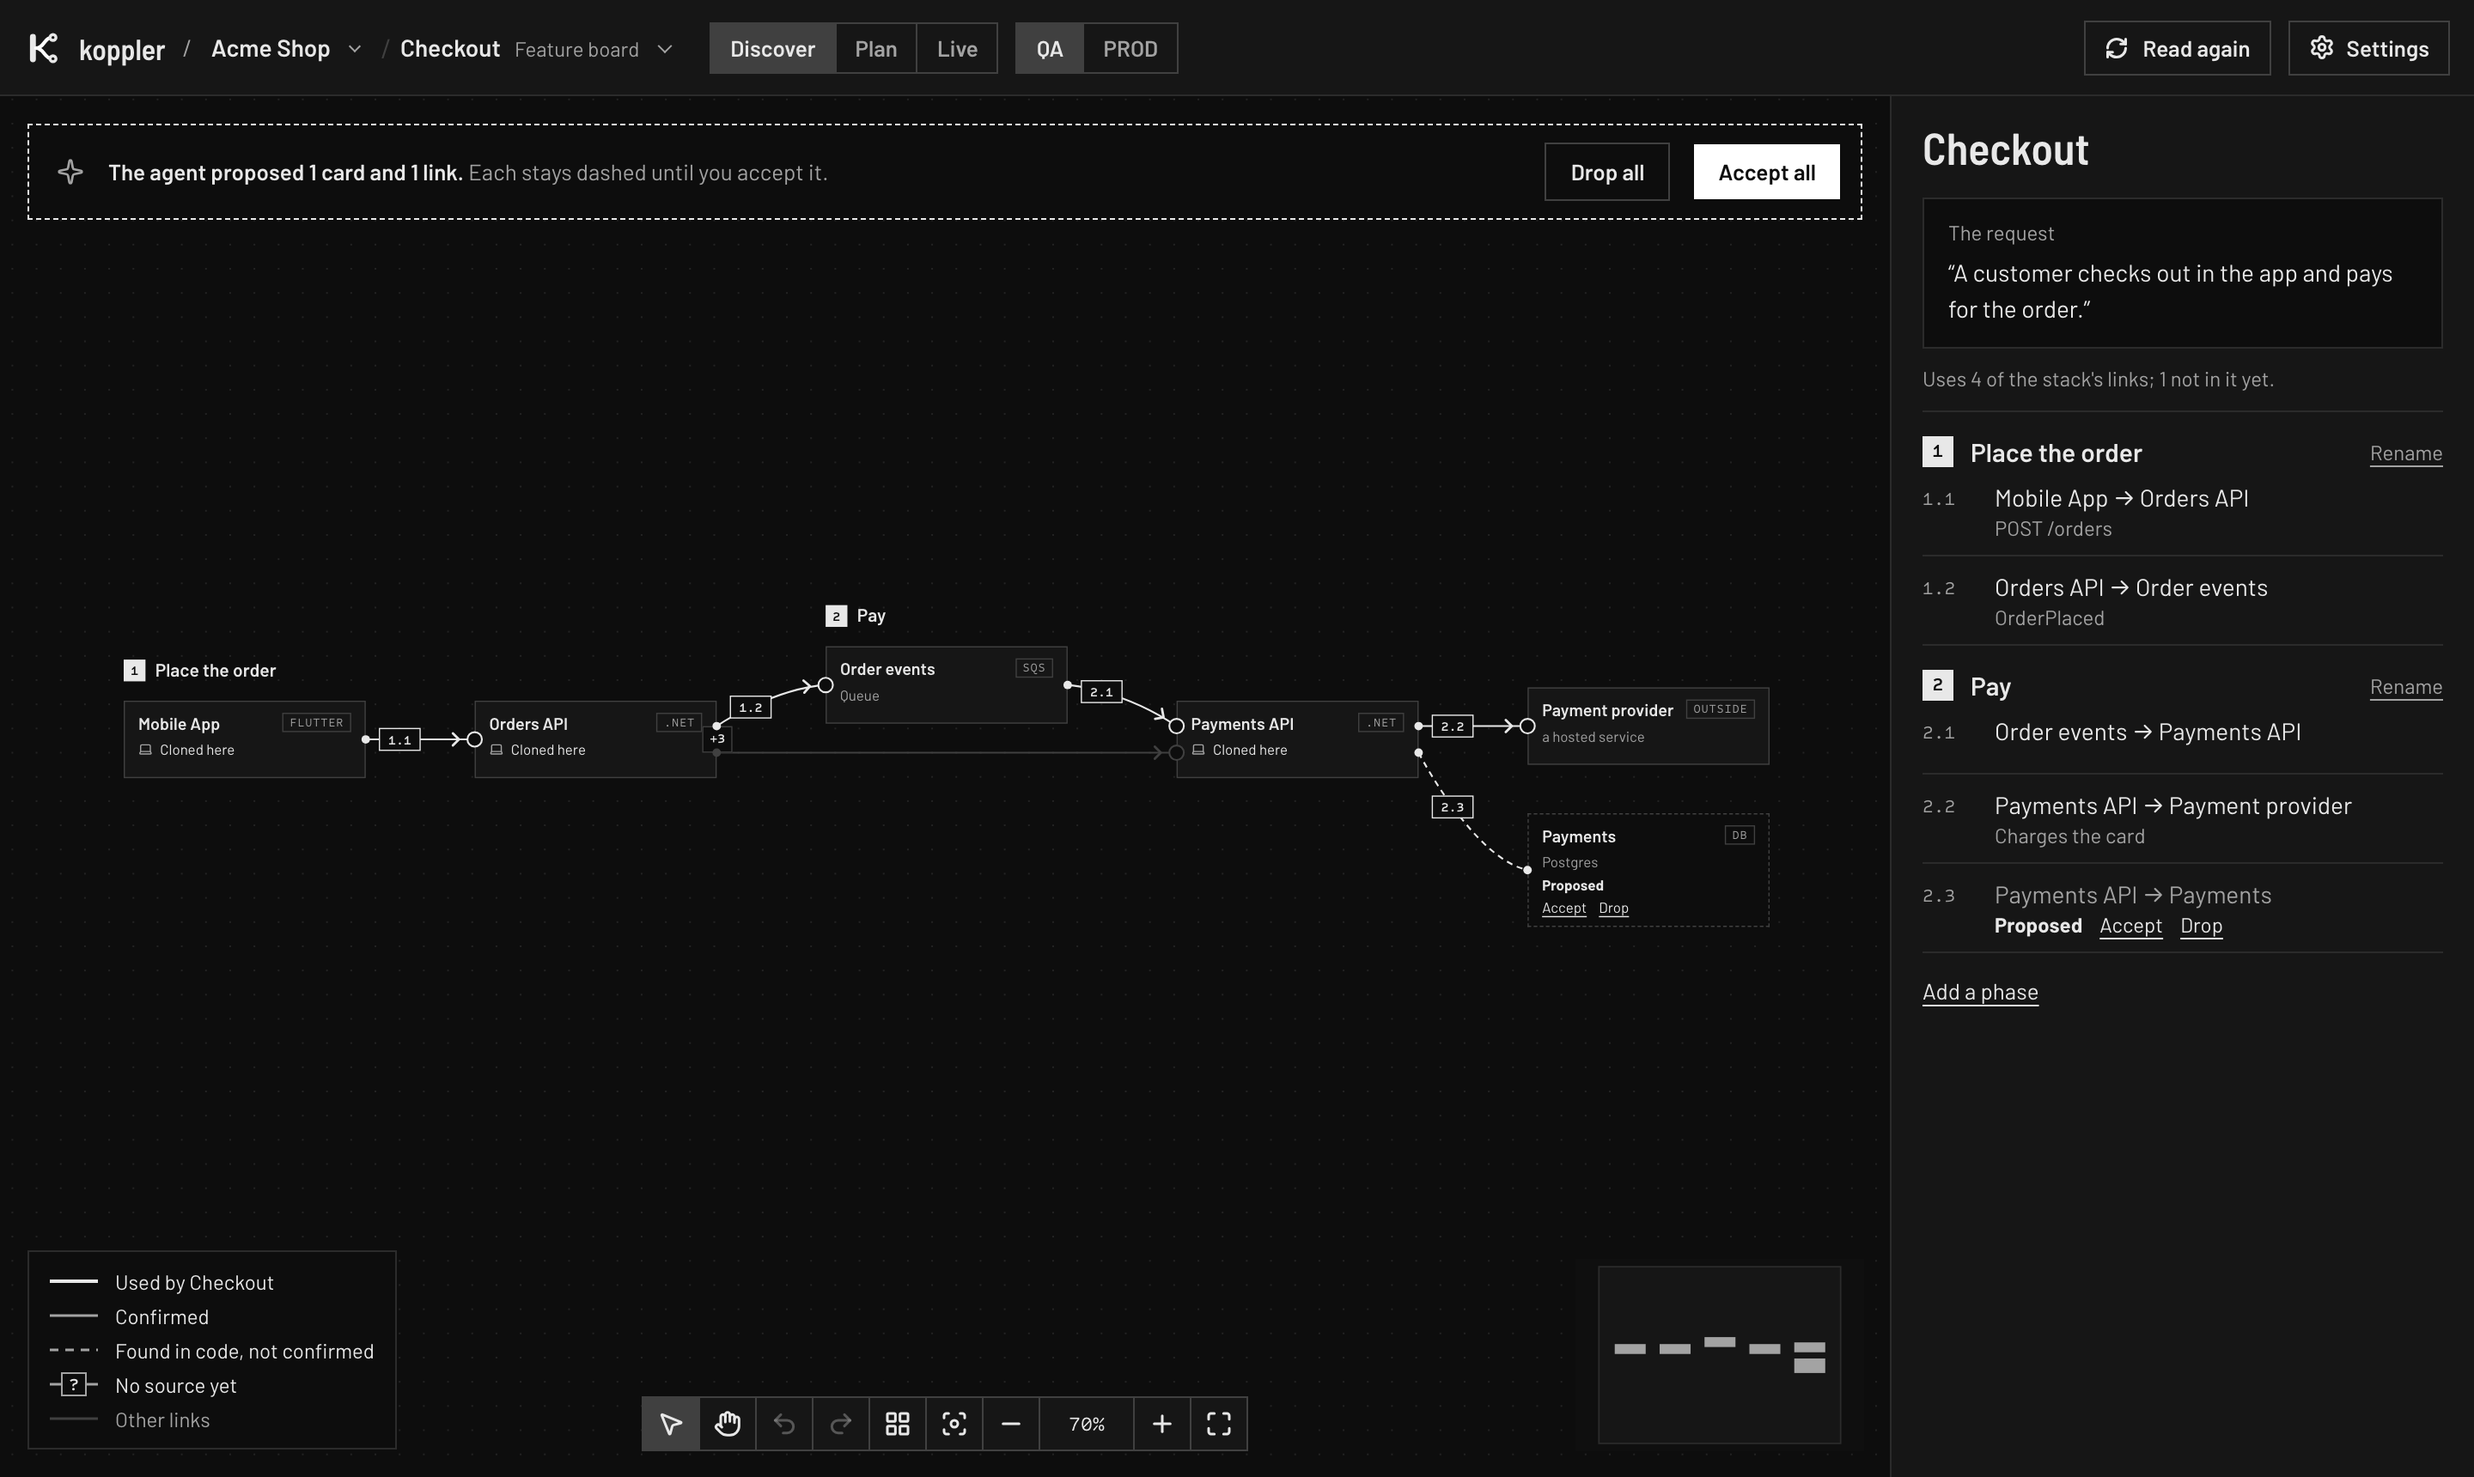
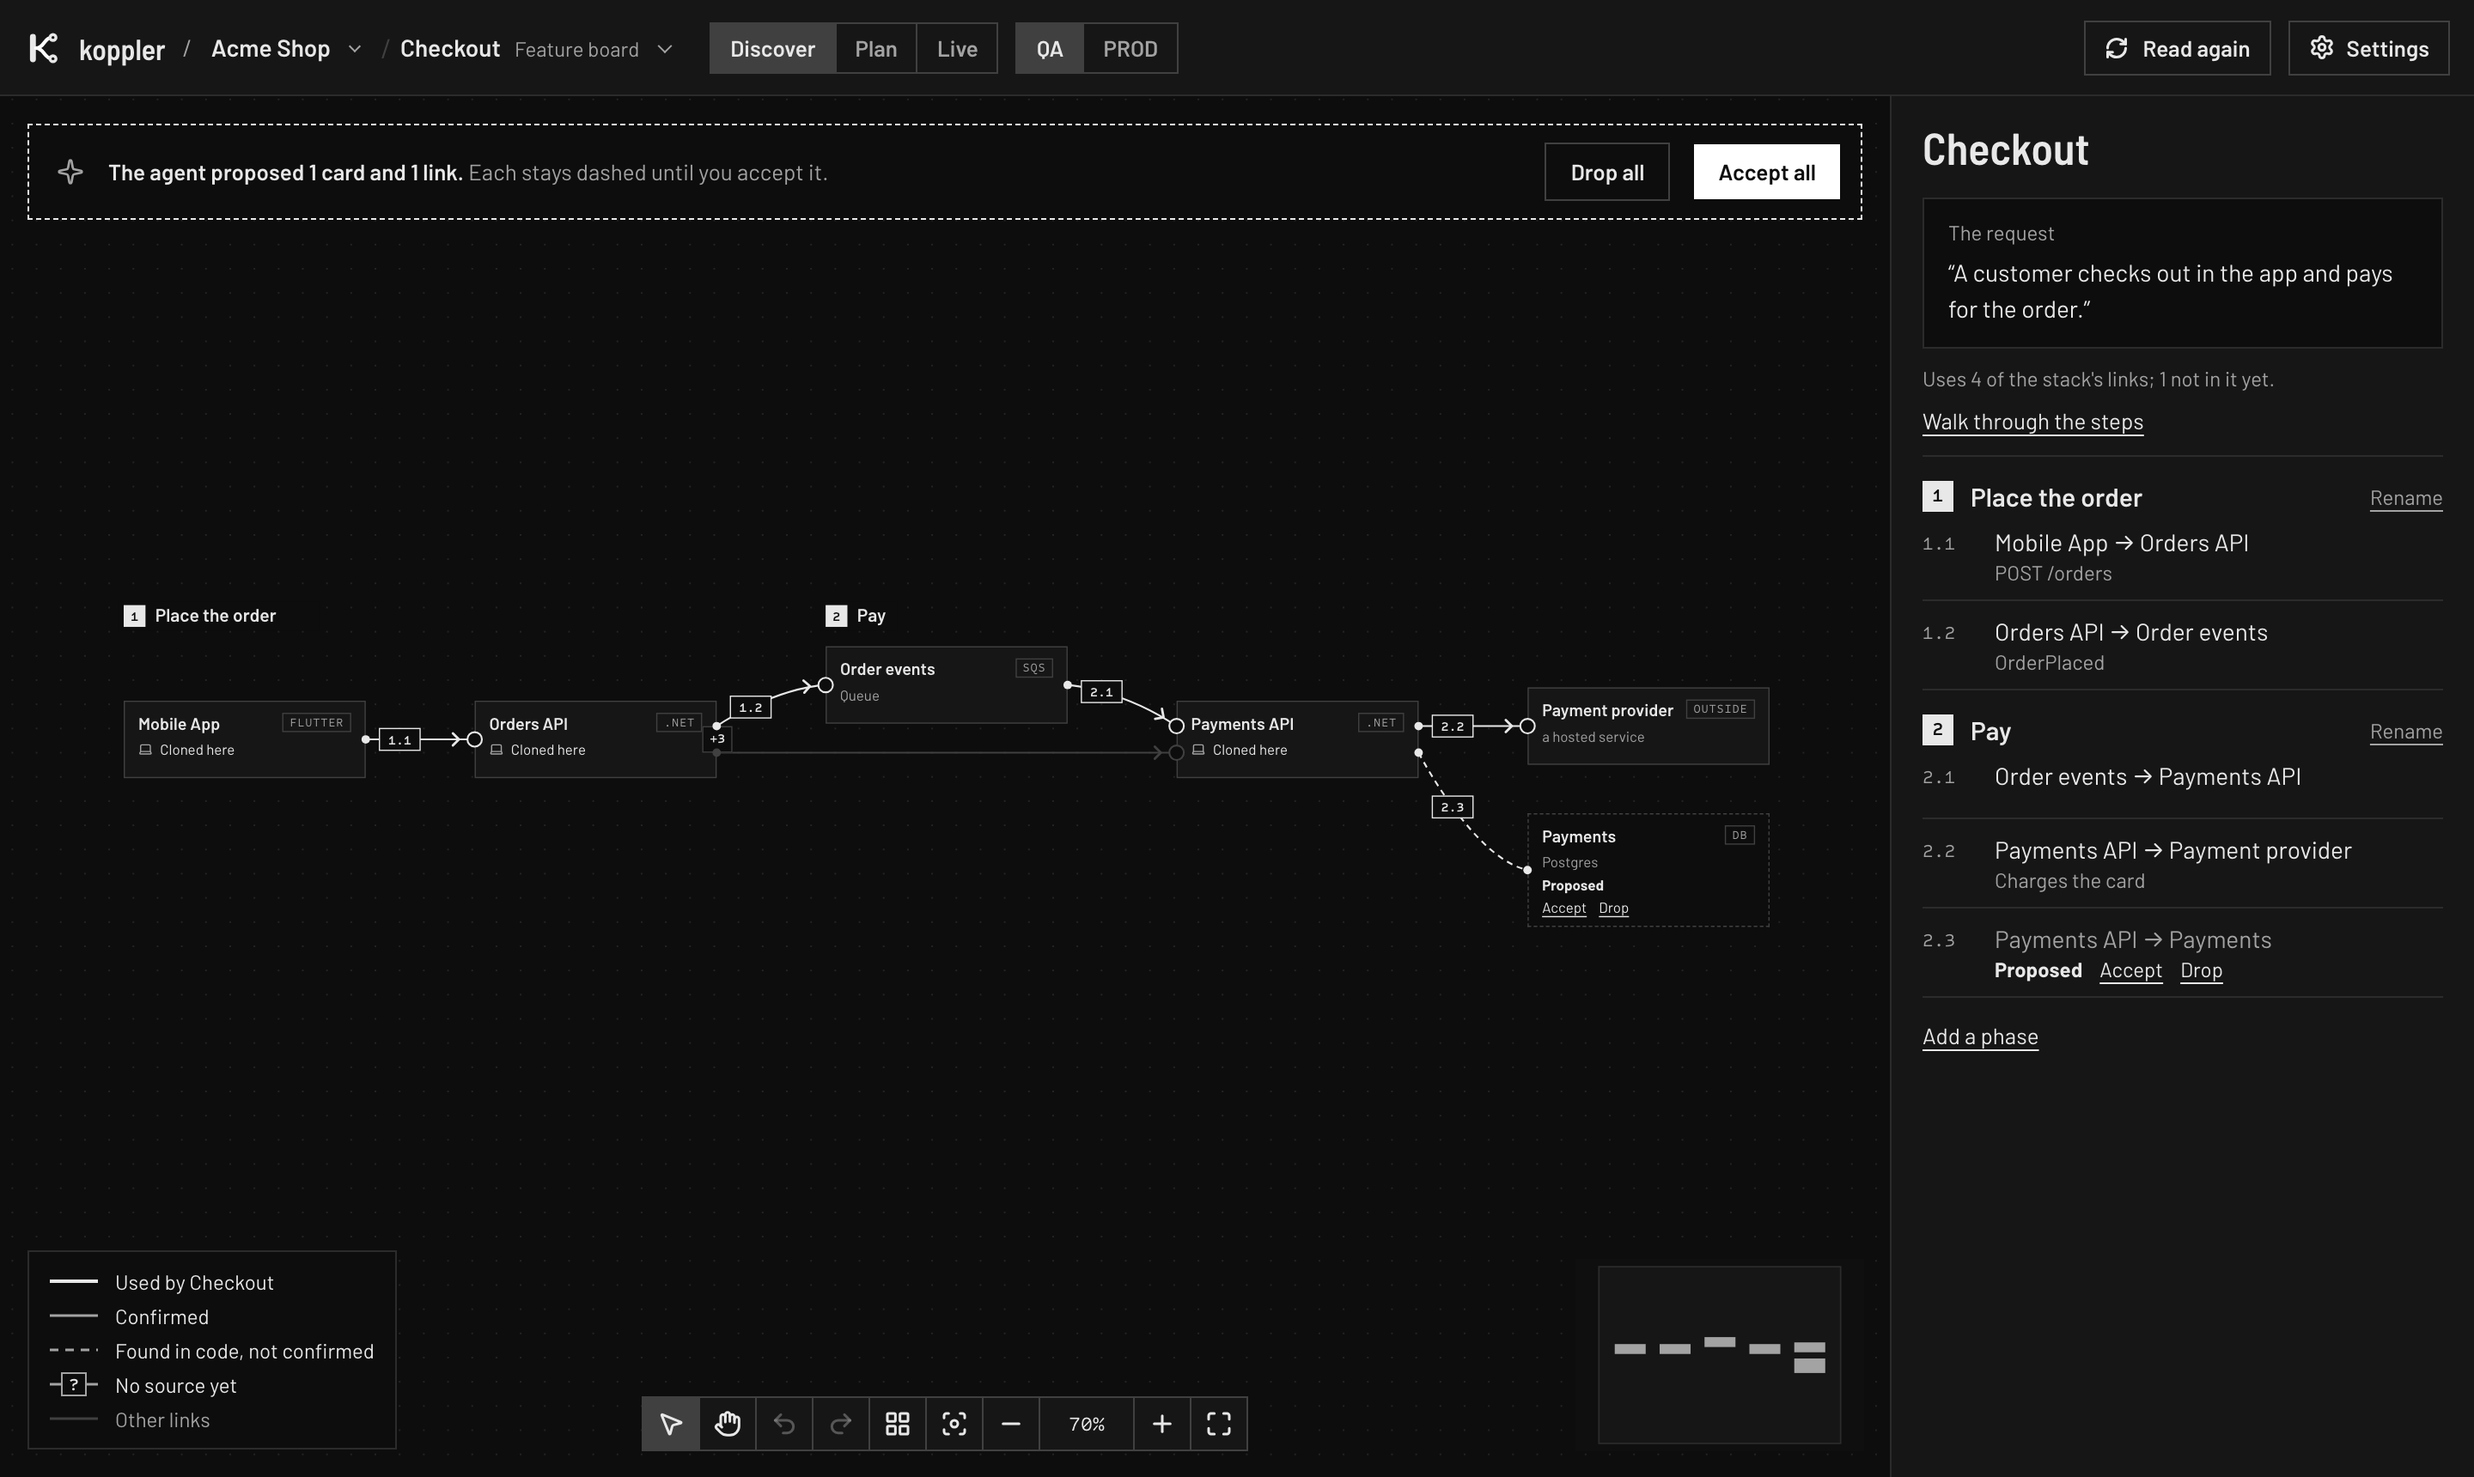
A feature board can be walked through step by step, and phase names sit above their cards, clear of links
Closes #644

Changed region(s): [[0.7812, 0.2773, 0.9375, 0.7087], [0.0312, 0.4006, 0.0938, 0.4622]]

diff --git a/app/canvas/Discover.svelte b/app/canvas/Discover.svelte
@@ -4,6 +4,9 @@
   import Sparkle from '@lucide/svelte/icons/sparkle';
   import X from '@lucide/svelte/icons/x';
   import Laptop from '@lucide/svelte/icons/laptop';
+  import { untrack } from 'svelte';
+  import ChevronLeft from '@lucide/svelte/icons/chevron-left';
+  import ChevronRight from '@lucide/svelte/icons/chevron-right';
   import {
     SvelteFlow,
     Background,
@@ -31,6 +34,20 @@
 
   const flow = useSvelteFlow();
   const map = $derived(discovered.map);
+  // A step picked is brought into view, both its cards, without zooming in.
+  $effect(() => {
+    const step = discovered.current?.step;
+    if (step)
+      untrack(
+        () =>
+          void flow.fitView({
+            nodes: [{ id: step.from }, { id: step.to }],
+            duration: 200,
+            maxZoom: flow.getZoom(),
+            padding: 0.3,
+          }),
+      );
+  });
   // The map refits when it gains cards or the panel takes or gives back its room.
   const shape = $derived(`${String(map.cards.length)}:${String(!!discovered.last)}`);
   $effect(() => {
@@ -124,17 +141,19 @@
           label: link.kind === 'bucket' && !step ? link.via : undefined,
           faded:
             (!!near && !(discovered.picked.includes(link.from) || discovered.picked.includes(link.to))) ||
-            (phase !== null && step?.phase !== phase),
+            (phase !== null && step?.phase !== phase) ||
+            (!!discovered.current && step?.number !== discovered.current.number),
         },
       ];
     });
   });
-  /** Each phase's name, above the card its first step leaves. */
+  /** Each phase's name, over the card its first step leaves, above every card of the phase so its links pass below. */
   const phases = $derived(
     (board.feature?.phases ?? []).flatMap((phase, at) => {
       const first = phase.steps[0];
       const where = first && box(first.from);
-      return where ? [{ at, name: phase.name, x: where.x, y: where.y - 34 }] : [];
+      const tops = phase.steps.flatMap(step => [box(step.from), box(step.to)]).flatMap(one => (one ? [one.y] : []));
+      return where ? [{ at, name: phase.name, x: where.x, y: Math.min(...tops) - 34 }] : [];
     }),
   );
   const proposals = $derived(discovered.proposals);
@@ -264,8 +283,12 @@
     else if (key === 'l') board.goLive();
     else if (key === 'f') void fit();
     else if (key === 'p') void presentMap();
-    else if (key === 'escape') {
-      if (board.present) void presentMap();
+    else if (board.feature && (key === 'arrowright' || key === 'arrowleft')) {
+      ev.preventDefault();
+      discovered.walk(key === 'arrowright' ? 1 : -1);
+    } else if (key === 'escape') {
+      if (discovered.current) discovered.step = null;
+      else if (board.present) void presentMap();
       else pick([]);
     }
   };
@@ -418,6 +441,8 @@
                 class:faded={discovered.phase !== null && discovered.phase !== phase.at}
                 transform="translate({phase.x} {phase.y})"
               >
+                <!-- On the desk's colour, so a link passing under the label does not run through its words. -->
+                <rect class="plate" x="-4" y="-3" width={phase.name.length * 8.5 + 38} height="24" />
                 <rect width="18" height="18" />
                 <text class="at" x="9" y="13" text-anchor="middle">{phase.at + 1}</text>
                 <text class="name" x="26" y="14">{phase.name}</text>
@@ -501,7 +526,42 @@
         >
       </div>
 
-      {#if discovered.picked.length}
+      {#if discovered.current}
+        {@const { step, number } = discovered.current}
+        <div class="pickbar stepbar" role="status" aria-label="Step {number}">
+          <span class="said">
+            <strong>{number}</strong>
+            {name(step.from)} → {name(step.to)}{#if step.note}<span class="note">{step.note}</span>{/if}
+          </span>
+          <button
+            class="icon"
+            type="button"
+            aria-label="Previous step"
+            title="Previous step (←)"
+            onclick={() => {
+              discovered.walk(-1);
+            }}><ChevronLeft size={16} /></button
+          >
+          <button
+            class="icon"
+            type="button"
+            aria-label="Next step"
+            title="Next step (→)"
+            onclick={() => {
+              discovered.walk(1);
+            }}><ChevronRight size={16} /></button
+          >
+          <button
+            class="icon"
+            type="button"
+            aria-label="Stop"
+            title="Stop (Esc)"
+            onclick={() => {
+              discovered.step = null;
+            }}><X size={16} /></button
+          >
+        </div>
+      {:else if discovered.picked.length}
         <div class="pickbar" role="status">
           <span
             ><strong>{discovered.picked.length} picked{discovered.picked.length > 2 ? '.' : ':'}</strong>
@@ -758,6 +818,9 @@
   .phase rect {
     fill: var(--ink);
   }
+  .phase .plate {
+    fill: var(--desk);
+  }
   .phase .at {
     fill: var(--desk);
     font: 600 11px var(--mono);
@@ -859,6 +922,40 @@
     font: 400 13px var(--sans);
     white-space: nowrap;
     transform: translateX(-50%);
+  }
+  /* A step's note can be long: it wraps, the bar keeps to the map's width. */
+  .stepbar {
+    gap: 4px;
+    max-width: min(640px, calc(100% - 32px));
+    white-space: normal;
+  }
+  .stepbar .said {
+    display: grid;
+    flex: 1;
+    gap: 2px;
+    margin-right: 10px;
+  }
+  .stepbar strong {
+    font: 600 12px var(--mono);
+  }
+  .stepbar .note {
+    color: var(--ink-muted);
+    font-size: 12px;
+  }
+  .stepbar button.icon {
+    display: grid;
+    flex: none;
+    place-items: center;
+    width: 30px;
+    height: 30px;
+    padding: 0;
+    border: 0;
+    background: none;
+    color: var(--ink);
+    cursor: pointer;
+  }
+  .stepbar button.icon:hover {
+    background: var(--desk);
   }
   .nothing {
     padding: 8px 14px;

diff --git a/app/e2e/feature-boards.spec.ts b/app/e2e/feature-boards.spec.ts
@@ -204,6 +204,34 @@ test("a step's number on the map picks its row in the panel", async ({ page, can
   await page.locator('.links .number').filter({ hasText: '1.1' }).click();
   await expect(panel.locator('.step[aria-current]')).toHaveCount(0);
 
+  // Walked through: the arrows go step by step, stopping at either end, and the bar says each step.
+  await panel.getByRole('button', { name: 'Walk through the steps' }).click();
+  const bar = page.getByRole('status', { name: /^Step / });
+  await expect(bar).toHaveAccessibleName('Step 1.1');
+  await expect(bar).toContainText('Web Shop → Orders API');
+  await expect(page.locator('.links .link:not(.faded)')).toHaveCount(1);
+  await page.keyboard.press('ArrowLeft');
+  await expect(bar).toHaveAccessibleName('Step 1.1');
+  for (const number of ['1.2', '2.1', '2.2', '2.2']) {
+    await page.keyboard.press('ArrowRight');
+    await expect(bar).toHaveAccessibleName(`Step ${number}`);
+    await expect(row(number)).toHaveAttribute('aria-current', 'true');
+  }
+  // Both ends of the step are brought into the map, clear of the panel.
+  const edge = await page.getByLabel('Discover map').evaluate(el => el.getBoundingClientRect().right);
+  await expect
+    .poll(async () => {
+      const box = await card(page, 'payments').boundingBox();
+      return box ? box.x + box.width <= edge : false;
+    })
+    .toBe(true);
+  await page.screenshot({ path: 'test-results/feature-step-walk.png' });
+  await bar.getByRole('button', { name: 'Previous step' }).click();
+  await expect(bar).toHaveAccessibleName('Step 2.1');
+  await page.keyboard.press('Escape');
+  await expect(bar).toHaveCount(0);
+  await expect(page.locator('.links .link.faded')).toHaveCount(0);
+
   // The request, changed in the panel, stays as wide as the panel and grows with its words, not by a handle.
   await panel.getByTitle('Change the request').click();
   const request = panel.getByLabel('The request');

diff --git a/app/canvas/discover.svelte.ts b/app/canvas/discover.svelte.ts
@@ -77,6 +77,15 @@ class Discovered {
   phase = $state<number | null>(null);
   /** The step picked by its number on the map: its row in the panel is marked. */
   step = $state<string | null>(null);
+  /** The picked step, while the feature still has it. */
+  current = $derived(this.step === null ? undefined : [...this.steps.values()].find(one => one.number === this.step));
+  /** Picks the step `by` places on from the picked one, or the first or last when none is; it stops at either end. */
+  walk(by: 1 | -1) {
+    const all = [...this.steps.values()].map(one => one.number);
+    if (!all.length) return;
+    const at = this.current ? all.indexOf(this.current.number) : by > 0 ? -1 : all.length;
+    this.step = all[Math.min(all.length - 1, Math.max(0, at + by))] ?? null;
+  }
   /** The last card picked, whose links the panel lists. */
   last = $state<Card | null>(null);
   picked = $state<Card[]>([]);

diff --git a/app/canvas/FeaturePanel.svelte b/app/canvas/FeaturePanel.svelte
@@ -64,6 +64,16 @@
     Uses {recorded} of the stack's links{steps.length > recorded
       ? `; ${String(steps.length - recorded)} not in it yet`
       : ''}.
+    {#if steps.length}
+      <button
+        class="text walk"
+        type="button"
+        title="Then → and ← to step, Esc to stop"
+        onclick={() => {
+          discovered.step = steps[0]?.number ?? null;
+        }}>Walk through the steps</button
+      >
+    {/if}
   </p>
 
   {#each feature.phases as one, at (one.name)}
@@ -235,6 +245,10 @@
     border-bottom: 1px solid var(--line);
     color: var(--ink-muted);
     font: 400 12px var(--sans);
+  }
+  button.walk {
+    display: block;
+    margin-top: 10px;
   }
   section {
     padding-top: 14px;

diff --git a/docs/canvas.md b/docs/canvas.md
@@ -145,6 +145,7 @@ A **feature board** (New feature board in the boards menu) is for one feature: t
 Describe the feature and **Hand it to the agent**: its proposals show dashed, each with Accept and Drop, until you accept them; accepting a link the stack does not have yet records it there.
 Or start from an app, and add a picked card's links with **Add as a step**.
 The panel on the right holds the request and the steps: pick a phase to dim the others, rename it, or take a step off.
+**Walk through the steps**, or click a step's number on the map, to follow the feature one step at a time: → and ← move on and back, each step brought into view with its note, and Esc stops.
 
 <img alt="A feature board, Checkout: its steps numbered in two phases on the map and in the panel, and one step the agent proposed, dashed, with Accept and Drop" src="images/feature-board.png">
 
